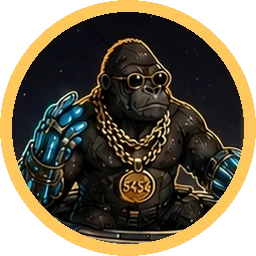
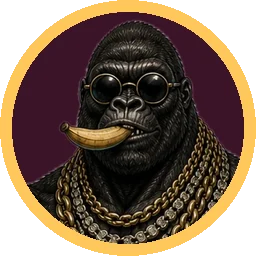
Venus: the gorilla trio's own art (ロングG 8585, ボスG 5454, ハットG 4545)
Full-body cutouts stand side by side in the story; coach faces are cut from them.

Claude-Session: https://claude.ai/code/session_019m5fyPtDtkNLRoPz7v9VsW

diff --git a/apps/web/lib/onboarding/day8.ts b/apps/web/lib/onboarding/day8.ts
@@ -7,7 +7,7 @@ import type { Step } from './script';
  * Flow: [認証] → wake up on Mars → KIMORIN: off to Venus by rocket (motion 8-1) → the gorilla trio
  * ロングG / ハットG / ボスG (KIMORIN's friends) → Venus play screen (placeholder layout until the
  * client's design, P-VENUS-1) → countdown. The last day of the journey: next is the Sun temple.
- * Art: no Venus art yet — the trio's faces are cut out of the Mars mock, the backdrop is generated.
+ * Art: longg/hatg/bossg.webp (client, 2026-10-05); the Venus backdrop is still generated.
  * Who says which of the client's lines is Claude's choice (✏).
  */
 export const DAY8: Step[] = [
@@ -25,7 +25,7 @@ export const DAY8: Step[] = [
   { t: 'caption', text: '金星に到着した' }, // ✏
   { t: 'sprite', image: 'kimorin-3' },
   { t: 'say', who: 'KIMORIN', text: '着いたケン！\nここには、オレの友達のゴリラが3人いるんだ。' }, // ✏
-  { t: 'sprite', image: 'gorilla-trio' },
+  { t: 'sprite', image: ['longg', 'bossg', 'hatg'] },
   { t: 'caption', text: 'ロングG、ハットG、ボスGが現れた' }, // ✏
   { t: 'say', who: 'KIMORIN', text: 'よっ、ロングG、ハットG、ボスG！\n今日は新入りを連れてきたケン。' }, // ✏
   // client's lines (split between the three by Claude ✏)
@@ -42,7 +42,7 @@ export const DAY8: Step[] = [
 
   // ✏ after playing — the last planet of the journey
   { t: 'bgm', track: 'opening' },
-  { t: 'sprite', image: 'gorilla-trio' },
+  { t: 'sprite', image: ['longg', 'bossg', 'hatg'] },
   { t: 'say', who: 'ボスG', text: '{name}の作ったもの、楽しみにしてるぜ。' },
   { t: 'sprite', image: 'kimorin-8' },
   { t: 'say', who: 'KIMORIN', text: 'これで、8つの星をぜんぶまわったケン。' },

diff --git a/docs/placeholders.md b/docs/placeholders.md
@@ -45,7 +45,7 @@
 | P-OB-14 | ✏ | 5日目（木星） | 大根カイザーの説明はクライアントのセリフどおり（語尾「DA」を付加）。KIMORIN が同行して友達のカイザーを紹介するセリフ、「土星で目を覚ました」、自己紹介（「我こそは木星の王」）、チュートリアル・締めのセリフは Claude の仮。動画 5-1（土星→木星）と 5-2（木星の神殿へ）は未着で仮画面。大根カイザーは届いた1枚絵（jupiter-kaiser.jpg、縦に切り出し）を背景に表示 | `apps/web/lib/onboarding/day5.ts`、`components/jupiter/JupiterTutorial.tsx` |
 | P-OB-15 | ✏ | 6日目（水星） | フリージーと KIMORIN の説明はクライアントのセリフどおり。「木星で目を覚ました」、着陸後の KIMORIN、フリージーの紹介、「ある／ない」への返事（ある→「ほう、なかなかやるな。」、ない→「そうか。なら今日が、はじめての日だ。」）、締めは Claude の仮。動画 6-1（ロケットで水星へ）・6-2（海に浮かぶ島に着陸）・6-3（水星の神殿へ）は未着で仮画面 | `apps/web/lib/onboarding/day6.ts` |
 | P-OB-16 | ✏ | 7日目（火星） | KIMORIN とヒポキンの説明はクライアントのセリフどおり。「水星で目を覚ました」、着いた後の KIMORIN、ヒポキンの紹介、締めは Claude の仮。動画 7-1（ロケットで火星へ）・7-2（未来都市へ）は未着で仮画面。金星は8日目に後回し（クライアント 2026-10-05） | `apps/web/lib/onboarding/day7.ts`、`packages/shared/src/journey.ts` |
-| P-OB-17 | ✏ | 8日目（金星） | KIMORIN とゴリラの説明はクライアントのセリフどおり。ゴリラ3人へのセリフの割り振り、「火星で目を覚ました」、着いた後の KIMORIN、紹介、締め（「明日は太陽の神殿」）は Claude の仮。動画 8-1 は未着。3人の絵は火星のデザイン画から顔を切り出した仮（gorilla-trio.webp）、金星の背景は自動で描いた仮（venus-market.jpg） | `apps/web/lib/onboarding/day8.ts` |
+| P-OB-17 | ✏ | 8日目（金星） | KIMORIN とゴリラの説明はクライアントのセリフどおり。ゴリラ3人へのセリフの割り振り、「火星で目を覚ました」、着いた後の KIMORIN、紹介、締め（「明日は太陽の神殿」）は Claude の仮。動画 8-1 は未着。3人の絵はクライアントの絵（longg/hatg/bossg.webp）。金星の背景はまだ自動で描いた仮（venus-market.jpg） | `apps/web/lib/onboarding/day8.ts` |
 | P-MARS-1 | 🟡 | 火星の画面（星図・スタジオ） | クライアントのデザインどおりに実装（街中／郊外の2パターン）。絵はデザイン画から切り出したもの。描かれたタイトル・カードの上に本物を重ねている。正式な素材（文字・カードの入っていない背景、UFO）が届いたら差し替え | `components/mars/MarsWorld.tsx`、`public/onboarding/mars-*.jpg`、`pod-*.webp` |
 | P-MARS-2 | 🟡 | 火星のデータと再生 | 8人の映像はサンプル。本物の動画はまだなく、サムネイル＋シーンの字幕＋BGM の仮の再生。自分のスタジオ・ロッカー・見た目の設定はこの端末だけに保存 | `lib/mars/sky.ts`、`lib/mars/state.ts`、`components/mars/Frame.tsx` |
 | P-MARS-3 | ✏ | 火星の撮影 | 作曲と同じ仮組み：KIMORIN（バティができたらバティ）に話しかけると映像になるチャット。映像はその場で作る仮のもの | `components/mars/ShootChat.tsx`、`lib/mars/make.ts` |

diff --git a/docs/story-bible.md b/docs/story-bible.md
@@ -30,7 +30,7 @@
 | 大根カイザー | 木星の王（5日目）。大根の体に冠と杖。木星は「命が宿る星」と語る。KIMORIN の友達。**語尾は「DA」**（✅ クライアント指定）。一人称「我」・相手は「君」は ✏ 仮 | 「木星は、命が宿る星DA。」「よし、それでは実際に木星で遊んでみるDA！」 |
 | フリージー | 水星の案内人（6日目）。KIMORIN の友達。冷蔵庫の体に三つ目・ひげ・長い黒髪、手には小さな扇風機、紫の火の玉。口調は「よく来たな」「〜だ」（語尾の決まりはまだ ✏） | 「音楽の惑星、水星へようこそ。」「実はな、音に乗っけると100倍のパワーを持つ。」 |
 | ヒポキン | 火星の未来都市にいるカバの王様（7日目）。KIMORIN の友達。黒いピンストライプのスーツに金の装飾、ワニのメダル、青く光る目。口調は「〜だ」（決まりはまだ ✏） | 「火星へようこそ。」「火星は、映像が集まる惑星だ。」 |
-| ロングG・ハットG・ボスG | 金星のゴリラ3人組（8日目）。KIMORIN の友達。ロングG＝長いドレッド、ハットG＝黄色いバケットハット、ボスG＝金のチェーンのボス（✏ 見た目は火星のデザイン画のゴリラから仮に当てた）。口調はまだ ✏ | 「金星へようこそ。」「物を作ることで表現するのも、とっても楽しい。」 |
+| ロングG・ハットG・ボスG | 金星のゴリラ3人組（8日目）。KIMORIN の友達。ロングG＝金色のロングヘアにサイケなローブ、歯の杖（8585）、ハットG＝黄色いバケットハットでスプレー缶（4545）、ボスG＝機械の腕に金のチェーン、バナナをくわえる（5454）（✅ クライアントの絵）。口調はまだ ✏ | 「金星へようこそ。」「物を作ることで表現するのも、とっても楽しい。」 |
 | たこ焼きシスター | 土星の案内人（4日目）。水色の髪・紫のドレス。静かでやさしい。**語尾は「わ。」**（✅ クライアント指定） | 「試しに呟いてみたらいいわ。」「ORDERになったら、登録した声にできるわ。」 |
 | バティ | 会員になった後、月の神殿で作る相棒AI。 | — |
 

diff --git a/docs/venus.md b/docs/venus.md
@@ -20,4 +20,4 @@
 - 画面のデザイン（クライアント待ち）
 - 星の集め方（どの惑星で、何をすると星が入るか）と、デモの初期値（いまは88）
 - グッズの種類（いまは ステッカー／バッジ／ぼうし／おきもの／アクセ）と、買ったグッズの使い道（ネオに着せる？ 島やスタジオに飾る？）
-- ゴリラ3人組の絵（いまは火星のデザイン画から顔を切り出した仮）と金星の背景（いまは自動で描いた仮）
+- 金星の背景（いまは自動で描いた仮）。ゴリラ3人組の絵はクライアントの絵に差し替え済み
